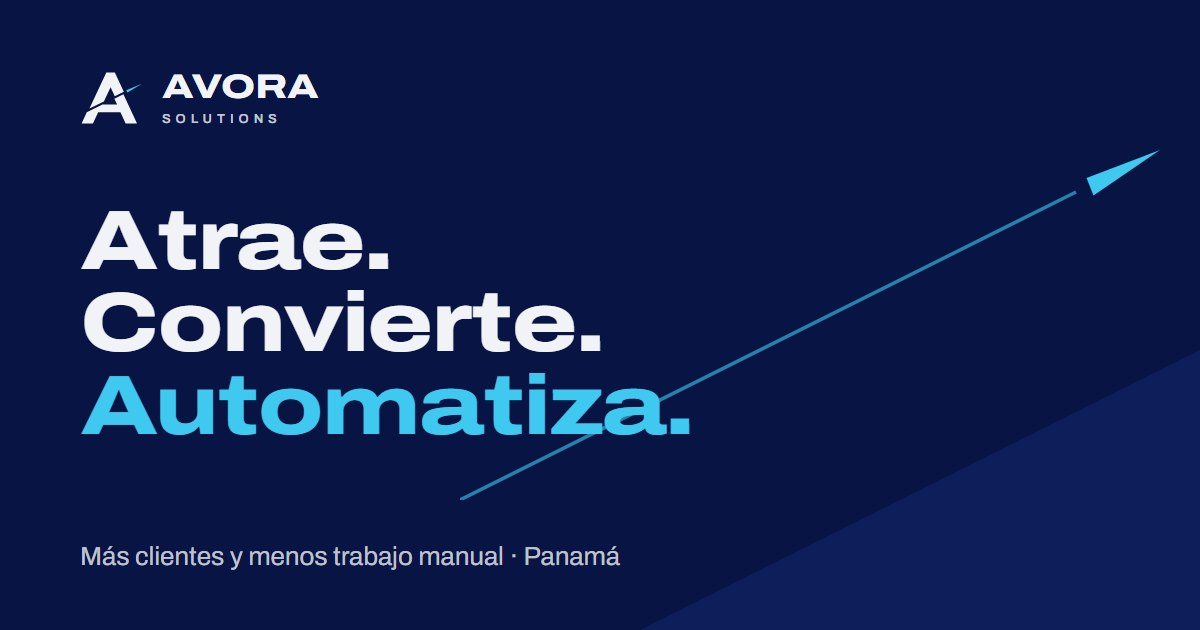
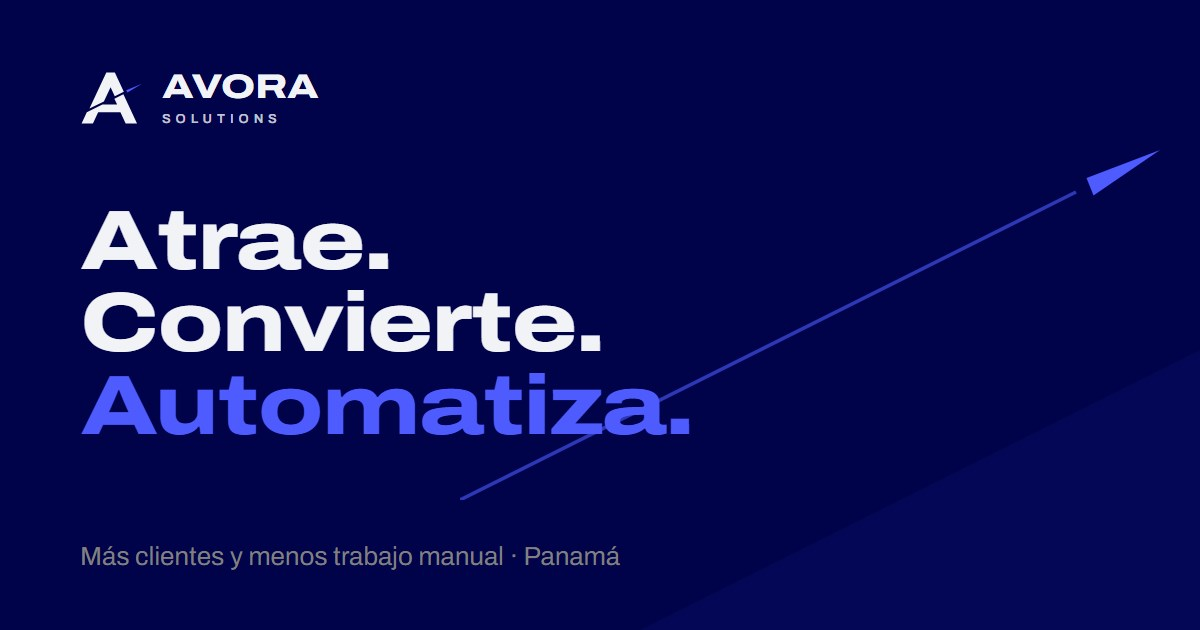
Paleta Deep Twilight

diff --git a/css/styles.css b/css/styles.css
@@ -5,12 +5,16 @@
 
 /* ---------- Tokens ---------- */
 :root {
-  --navy: #081444;
-  --navy-deep: #050d30;
-  --navy-raised: #0e1e5b;
+  /* Paleta Deep Twilight */
+  --navy: #00034a;                 /* fondo oscuro principal */
+  --navy-deep: #000236;
+  --navy-raised: #030756;          /* más claro no: el gris #808080 bajaría de AA */
   --bone: #f2f3f7;
-  --sky: #3fc8f0;
-  --electric: #2f6bff;
+  --royal: #000096;                /* fondo de botones principales */
+  --indigo: #4d5bff;               /* destacados grandes, bordes y decoración (3.83:1, solo texto grande) */
+  --lavender: #8a93ff;             /* texto pequeño de acento sobre oscuro */
+  --gray-dark: #808080;            /* texto secundario sobre oscuro */
+  --gray-light: #595959;           /* texto secundario sobre claro */
 
   --slope: 26.57deg;               /* ángulo del corte del logo */
   --ease: cubic-bezier(.2, .7, .2, 1);
@@ -27,26 +31,23 @@
   :root { --header-h: 76px; --gutter: clamp(2rem, 5vw, 4rem); }
 }
 
-/* Temas: solo definen variables. Oscuro = celeste; claro = azul eléctrico. */
+/* Temas: solo definen variables. --accent es decorativo o para texto grande;
+   el texto pequeño de acento usa --eyebrow. */
 .theme-dark, .site-header, .wa-float {
   --bg: var(--navy);
   --fg: var(--bone);
-  --muted: rgba(242, 243, 247, .74);
+  --muted: var(--gray-dark);
   --line: rgba(242, 243, 247, .16);
-  --accent: var(--sky);
-  --accent-hover: #74d8f5;
-  --on-accent: var(--navy);
-  --eyebrow: var(--sky);
+  --accent: var(--indigo);
+  --eyebrow: var(--lavender);
 }
 .theme-light {
   --bg: var(--bone);
   --fg: var(--navy);
-  --muted: rgba(8, 20, 68, .76);
-  --line: rgba(8, 20, 68, .14);
-  --accent: var(--electric);
-  --accent-hover: #1f56e6;
-  --on-accent: #fff;
-  --eyebrow: var(--navy);           /* el eléctrico no llega a AA en texto pequeño sobre claro */
+  --muted: var(--gray-light);
+  --line: rgba(0, 3, 74, .14);
+  --accent: var(--indigo);
+  --eyebrow: var(--royal);          /* el índigo no llega a AA en texto pequeño sobre claro */
 }
 
 /* ---------- Base ---------- */
@@ -102,7 +103,7 @@ section, footer, .pillar {
 .skip-link:focus { top: 1rem; }
 
 :focus-visible {
-  outline: 3px solid var(--accent, var(--sky));
+  outline: 3px solid var(--accent, var(--indigo));
   outline-offset: 3px;
 }
 
@@ -154,6 +155,7 @@ section, footer, .pillar {
   cursor: pointer;
   border: 0;
   clip-path: polygon(0 0, 100% 0, 100% calc(100% - var(--corner)), calc(100% - 2 * var(--corner)) 100%, 0 100%);
+  isolation: isolate;               /* permite pintar el relleno del primario detrás del texto */
   transition: background-color .2s var(--ease), transform .2s var(--ease);
 }
 .btn:hover { transform: translateY(-2px); }
@@ -161,9 +163,21 @@ section, footer, .pillar {
 /* clip-path recorta el outline exterior: el foco se dibuja por dentro */
 .btn:focus-visible { outline: 3px solid var(--fg); outline-offset: -6px; }
 
-.btn--primary { background: var(--accent); color: var(--on-accent); }
-.btn--primary:hover { background: var(--accent-hover); }
-.btn--primary:focus-visible { outline-color: var(--on-accent); }
+/* Primario: relleno royal con borde fino índigo. Un borde CSS no seguiría la
+   esquina recortada, así que el fondo es el borde y ::before (1px adentro,
+   mismo recorte) es el relleno. */
+.btn--primary { --btn-fill: var(--royal); background: var(--indigo); color: #fff; }
+.btn--primary::before {
+  content: "";
+  position: absolute;
+  inset: 1px;
+  z-index: -1;
+  background: var(--btn-fill);
+  clip-path: inherit;
+  transition: background-color .2s var(--ease);
+}
+.btn--primary:hover { --btn-fill: #1a1fb8; }
+.btn--primary:focus-visible { outline-color: #fff; }
 
 .btn--ghost { background: color-mix(in srgb, var(--fg) 9%, transparent); color: var(--fg); }
 .btn--ghost:hover { background: color-mix(in srgb, var(--fg) 15%, transparent); }
@@ -183,8 +197,8 @@ section, footer, .pillar {
   transition: background-color .3s var(--ease), box-shadow .3s var(--ease);
 }
 .site-header.is-solid {
-  background: rgba(8, 20, 68, .96);
-  box-shadow: 0 1px 0 var(--line), 0 10px 30px rgba(5, 13, 48, .35);
+  background: rgba(0, 3, 74, .96);
+  box-shadow: 0 1px 0 var(--line), 0 10px 30px rgba(0, 2, 54, .35);
 }
 .site-header__inner {
   height: 100%;
@@ -313,12 +327,12 @@ section, footer, .pillar {
 }
 .hero__cut-line {
   fill: none;
-  stroke: var(--sky);
+  stroke: var(--indigo);
   stroke-width: 2px;
   vector-effect: non-scaling-stroke;
   opacity: .5;
 }
-.hero__cut-spark { fill: var(--sky); }
+.hero__cut-spark { fill: var(--indigo); }
 @keyframes draw-x { to { clip-path: inset(-5% 0 -5% 0); } }
 
 @media (max-width: 899px) {
@@ -339,10 +353,10 @@ section, footer, .pillar {
   right: -5%;
   top: 0;
   transform: translateY(-50%) rotate(-3deg);
-  background: var(--sky);
-  color: var(--navy);
+  background: var(--indigo);
+  color: #fff;
   overflow: hidden;
-  box-shadow: 0 12px 30px rgba(5, 13, 48, .25);
+  box-shadow: 0 12px 30px rgba(0, 2, 54, .25);
 }
 .ribbon__track {
   display: flex;
@@ -488,7 +502,7 @@ section, footer, .pillar {
 .pillar__tag {
   justify-self: start;
   padding: .35rem 1.1rem .35rem .8rem;
-  background: var(--electric);
+  background: var(--indigo);
   color: #fff;
   font-size: .75rem;
   font-weight: 800;
@@ -498,8 +512,8 @@ section, footer, .pillar {
 }
 .pillar__note {
   padding: 1rem 1.25rem;
-  background: rgba(47, 107, 255, .09);
-  border-left: 4px solid var(--electric);
+  background: rgba(77, 91, 255, .09);
+  border-left: 4px solid var(--indigo);
   font-weight: 600;
   max-width: 32rem;
 }
@@ -617,7 +631,7 @@ section, footer, .pillar {
   height: clamp(10px, 1.5vw, 16px);
   background: linear-gradient(#dde0e9, #a7adbf);
   border-radius: 0 0 14px 14px / 0 0 10px 10px;
-  box-shadow: 0 18px 30px -12px rgba(8, 20, 68, .45);
+  box-shadow: 0 18px 30px -12px rgba(0, 3, 74, .45);
 }
 .device__base::before {
   content: "";
@@ -643,7 +657,7 @@ section, footer, .pillar {
   aspect-ratio: 390 / 844;
   border: clamp(4px, .7vw, 7px) solid #0a0f24;
   border-radius: clamp(14px, 2.4vw, 26px);
-  box-shadow: 0 24px 40px -12px rgba(8, 20, 68, .5);
+  box-shadow: 0 24px 40px -12px rgba(0, 3, 74, .5);
 }
 .device--phone .device__screen::before {
   content: "";
@@ -703,7 +717,7 @@ section, footer, .pillar {
   width: 3rem;
   height: 2.5rem;
   margin-bottom: 1rem;
-  background: var(--electric);
+  background: var(--indigo);
   color: #fff;
   font-size: 1.25rem;
   font-weight: 800;
@@ -740,7 +754,7 @@ section, footer, .pillar {
   }
   .process__line path {
     fill: none;
-    stroke: var(--electric);
+    stroke: var(--indigo);
     stroke-width: 2px;
     opacity: .35;
   }
@@ -795,7 +809,7 @@ section, footer, .pillar {
   font-size: 1.125rem;
   font-weight: 800;
   font-stretch: 125%;
-  color: var(--accent);
+  color: var(--eyebrow);            /* texto pequeño: lavanda, el índigo no llega a AA */
 }
 .site-footer__contact { display: grid; gap: .5rem; color: var(--muted); }
 .site-footer__contact a { text-decoration: none; }
@@ -817,17 +831,26 @@ section, footer, .pillar {
   place-items: center;
   width: 58px;
   height: 58px;
-  background: var(--accent);
-  color: var(--on-accent);
+  background: var(--indigo);         /* borde fino; el relleno royal va en ::before */
+  color: #fff;
   clip-path: polygon(0 0, 100% 0, 100% calc(100% - 12px), calc(100% - 24px) 100%, 0 100%);
-  filter: drop-shadow(0 8px 16px rgba(5, 13, 48, .35));
+  isolation: isolate;
+  filter: drop-shadow(0 8px 16px rgba(0, 2, 54, .35));
   opacity: 0;
   transform: translateY(12px) scale(.85);
   pointer-events: none;
   transition: opacity .25s var(--ease), transform .25s var(--ease);
 }
+.wa-float::before {
+  content: "";
+  position: absolute;
+  inset: 1px;
+  z-index: -1;
+  background: var(--royal);
+  clip-path: inherit;
+}
 .wa-float .icon { width: 28px; height: 28px; }
-.wa-float:focus-visible { outline: 3px solid var(--on-accent); outline-offset: -6px; }
+.wa-float:focus-visible { outline: 3px solid #fff; outline-offset: -6px; }
 .wa-float.is-shown { opacity: 1; transform: none; pointer-events: auto; }
 @media (min-width: 900px) { .wa-float { display: none; } }
 

diff --git a/_herramientas/og-image.html b/_herramientas/og-image.html
@@ -8,7 +8,7 @@
   html, body { margin: 0; width: 1200px; height: 630px; overflow: hidden; }
   body {
     position: relative;
-    background: #081444;
+    background: #00034A;
     color: #f2f3f7;
     font-family: "Archivo", sans-serif;
   }
@@ -16,7 +16,7 @@
     position: absolute;
     right: -120px; bottom: -40px;
     width: 760px; height: 380px;
-    background: #0e1e5b;
+    background: #030756;
     clip-path: polygon(0 100%, 100% 0, 100% 100%);
   }
   .line {
@@ -33,15 +33,15 @@
     font-size: 84px; font-weight: 800; font-stretch: 125%; line-height: .98; letter-spacing: -.015em;
   }
   h1 span { display: block; }
-  h1 span:last-child { color: #3fc8f0; }
-  p { position: absolute; left: 80px; bottom: 60px; margin: 0; font-size: 26px; color: rgba(242,243,247,.8); }
+  h1 span:last-child { color: #4D5BFF; }
+  p { position: absolute; left: 80px; bottom: 60px; margin: 0; font-size: 26px; color: #808080; }
 </style>
 </head>
 <body>
   <div class="band"></div>
   <svg class="line" viewBox="0 0 200 100">
-    <path d="M0 100 L176 12" stroke="#3fc8f0" stroke-width="1" fill="none" opacity=".6"/>
-    <path d="M181 13 L179 8 L200 0 Z" fill="#3fc8f0"/>
+    <path d="M0 100 L176 12" stroke="#4D5BFF" stroke-width="1" fill="none" opacity=".6"/>
+    <path d="M181 13 L179 8 L200 0 Z" fill="#4D5BFF"/>
   </svg>
   <div class="brand">
     <img src="../img/logo-avora-claro.svg" alt="">

diff --git a/index.html b/index.html
@@ -9,7 +9,7 @@
   <meta name="description" content="Redes sociales, páginas web y automatizaciones con IA para negocios en Panamá. Más clientes y menos trabajo manual. Agenda tu demo por WhatsApp.">
   <!-- Dominio provisional: reemplazar https://avorasolutions.com cuando esté definido -->
   <link rel="canonical" href="https://avorasolutions.com/">
-  <meta name="theme-color" content="#081444">
+  <meta name="theme-color" content="#00034A">
   <link rel="icon" href="img/favicon.svg" type="image/svg+xml">
 
   <meta property="og:type" content="website">

diff --git a/CLAUDE.md b/CLAUDE.md
@@ -11,8 +11,19 @@ Landing page (página de una sola sección de venta) de mi agencia de marketing 
 
 ## Marca
 
-- **Colores base:** navy `#081444` (fondo oscuro) y hueso `#F2F3F7` (fondo claro / texto sobre oscuro).
-- **Acento actual:** celeste `#3FC8F0` (`--sky`) en el tema oscuro y azul eléctrico `#2F6BFF` (`--electric`) en el tema claro. Están definidos como variables en `css/styles.css`.
+**Paleta "Deep Twilight"** (variables en `:root` de `css/styles.css`):
+
+| Uso | Color | Variable |
+|---|---|---|
+| Fondo oscuro principal (también favicon y logos) | `#00034A` | `--navy` (variantes `--navy-deep` `#000236`, `--navy-raised` `#030756`) |
+| Fondo claro / texto sobre oscuro | `#F2F3F7` | `--bone` |
+| Botones principales: fondo, texto blanco | `#000096` | `--royal` |
+| Borde fino de botones, palabras destacadas en títulos, decoración, estela del logo | `#4D5BFF` | `--indigo` |
+| Texto pequeño de acento sobre oscuro ("REDES · PÁGINAS WEB") | `#8A93FF` | `--lavender` |
+| Texto secundario sobre oscuro | `#808080` | `--gray-dark` |
+| Texto secundario sobre claro | `#595959` | `--gray-light` |
+
+Reglas de contraste (AA): `#4D5BFF` da 3.83:1 sobre el navy, así que **solo sirve para texto grande** (24px o más, o 18.66px en negrita) y decoración, nunca para texto pequeño. `--navy-raised` no puede ser más claro, porque el gris `#808080` bajaría de 4.5:1.
 - **Tipografía:** Archivo (Google Fonts), para todo el sitio.
 
 ## Reglas de contenido
@@ -30,7 +41,7 @@ No hay paso de compilación. Abre `index.html` directo, o sirve la carpeta con u
 
 ## Arquitectura
 
-**Temas por variables.** `.theme-dark` y `.theme-light` solo redefinen variables CSS (`--bg`, `--fg`, `--muted`, `--line`, `--accent`, `--on-accent`, `--eyebrow`); los componentes leen esas variables y nunca escriben colores fijos. El tema oscuro usa `--sky` como acento y el claro usa `--electric`. En el claro, `--eyebrow` es navy porque el azul eléctrico no cumple contraste AA en texto pequeño. Una sección cambia de aspecto solo con agregarle la clase del tema (los pilares de Servicios alternan temas uno por uno).
+**Temas por variables.** `.theme-dark` y `.theme-light` solo redefinen variables CSS (`--bg`, `--fg`, `--muted`, `--line`, `--accent`, `--eyebrow`); los componentes leen esas variables y nunca escriben colores fijos. `--accent` es índigo en ambos temas (decoración y texto grande); `--eyebrow` es el color del texto pequeño de acento: lavanda en oscuro y royal en claro. Los botones primarios (`.btn--primary`, `.wa-float`) son iguales en ambos temas: el fondo del elemento es el borde índigo y un `::before` 1px adentro, con el mismo `clip-path`, es el relleno royal. Así el borde sigue también la esquina recortada. Una sección cambia de aspecto solo con agregarle la clase del tema (los pilares de Servicios alternan temas uno por uno).
 
 **El motivo del "corte" diagonal.** Todo lo visual sale de la barra diagonal del logo: pendiente 0.5 (`--slope: 26.57deg`). Aparece en la línea SVG del hero, los separadores `.cut-top`, las esquinas recortadas de los botones, la animación `wipe` (clip-path), la línea del proceso y la imagen OG. Los nuevos elementos decorativos deben reutilizar este ángulo en vez de inventar otros.
 
